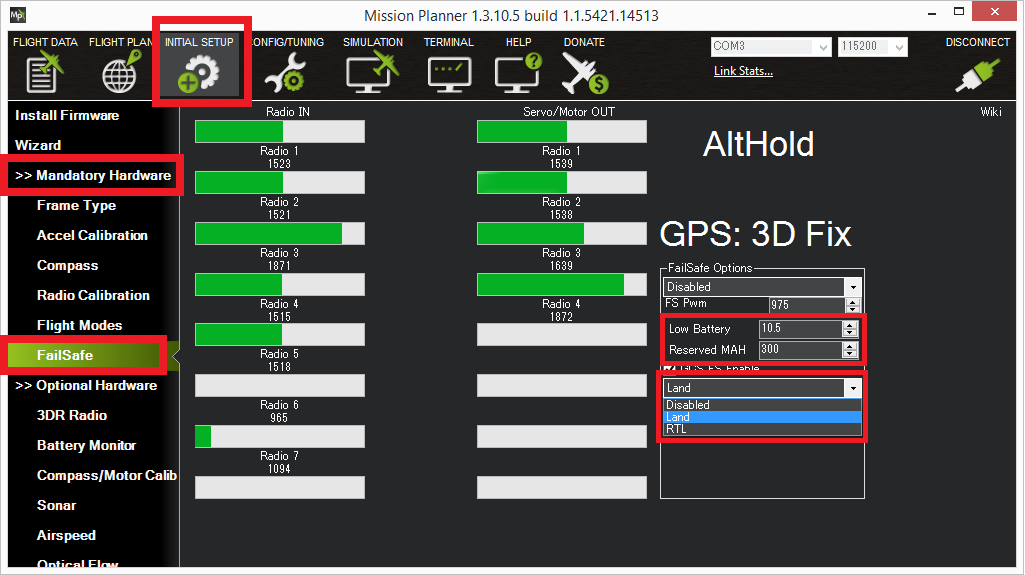
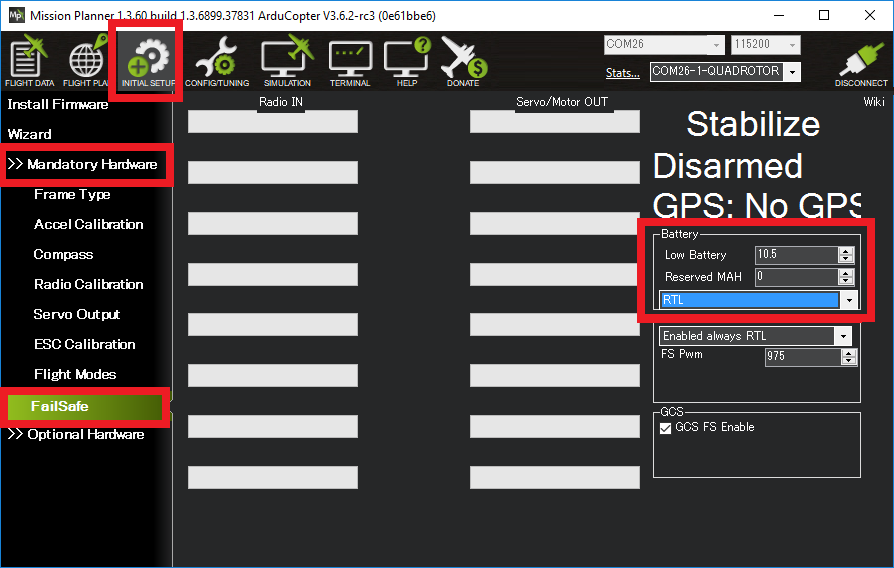
Copter: update battery failsafe for 3.6

diff --git a/copter/source/docs/failsafe-battery.rst b/copter/source/docs/failsafe-battery.rst
@@ -4,76 +4,76 @@
 Battery Failsafe
 ================
 
-This article explains how to setup and test the battery failsafe.
-
-Overview
-========
-
-The battery failsafe can be set-up to automatically trigger an RTL or
-LAND when the vehicle battery voltage or estimated remaining power has
-crossed a configurable threshold.
-
-To use this failsafe the vehicle must have a :ref:`Power Module or other voltage and (optionally) current monitor <common-powermodule-landingpage>`.
+The battery failsafe can be configured to automatically switch the vehicle into :ref:`RTL <rtl-mode>`, :ref:`SmartRTL <smartrtl-mode>` or :ref:`Land <land-mode>` mode if the vehicle battery voltage drops below a specified voltage for 10 seconds or the estimated remaining capacity has dropped below a configurable threshold.
 
 .. note::
 
-   Copter also supports other failsafes: :ref:`Radio <radio-failsafe>`,
-   :ref:`GCS <gcs-failsafe>`, and :ref:`EKF / DCM Check <ekf-inav-failsafe>`.
+    This failsafe requires the vehicle have a working :ref:`Power Module <common-powermodule-landingpage>`.
 
 When the failsafe will trigger
-==============================
+------------------------------
 
-If enabled and set-up correctly the battery failsafe will trigger if the
-main battery:
+If enabled and set-up correctly the battery failsafe will trigger if the main battery's
 
--  voltage drops below 10.5 volts (configurable) for more than 10
-   seconds
--  remaining capacity falls below the configurable Reserved MAH
+-  voltage drops below the voltage held in the :ref:`BATT_LOW_VOLT <BATT_LOW_VOLT>` or :ref:`FS_BATT_VOLTAGE <FS_BATT_VOLTAGE>` parameter for more than 10 seconds.  The default voltage is 10.5 volts.  If set to zero the voltage based trigger will be disabled.
+-  remaining capacity falls below the :ref:`BATT_LOW_MAH <BATT_LOW_MAH>` or :ref:`FS_BATT_MAH <FS_BATT_MAH>`.  20% of the battery's full capacity is a good choice (i.e. "1000" for a 5000mAh battery).  If set to zero the capacity based trigger will be disabled (i.e. only voltage will be used)
 
 What will happen
-================
+----------------
 
-When the failsafe is triggered one of the following will happen:
+When the failsafe is triggered:
+
+-  Buzzer will play a loud low-battery alarm
+-  LEDs will flash yellow
+-  "Low Battery!" will be displayed on the ground stations HUD (if telemetry is connected)
+
+Then one of the following will happen:
 
 -  **Nothing** if the vehicle is already disarmed
--  **Disarm motors** if the vehicle is in Stabilize or Acro mode and the
-   throttle is at zero OR the vehicle is landed
--  **Return-to-Launch (RTL)** if the ``FS_BATT_ENABLE`` param is set to
-   "2" ("RTL") OR the vehicle is in AUTO mode, has a GPS lock and are at
-   least 2 meters from your home position
--  **Land** in all other cases
+-  **Disarm motors** if the vehicle is in Stabilize or Acro mode and the throttle is at zero OR the vehicle is landed
+-  The user configurable action held in the :ref:`BATT_FS_LOW_ACT <BATT_FS_LOW_ACT>` (Copter-3.6 or higher) or :ref:`FS_BATT_ENABLE <FS_BATT_ENABLE>` (Copter-3.5 or lower) parameter:
 
-Setting up the battery failsafe
-===============================
+  - **0** : None - no action will be taken
+  - **1** : Land - the vehicle will switch to :ref:`Land <land-mode>` mode
+  - **2** : RTL - the vehicle will switch to :ref:`Return-to-Launch <rtl-mode>` mode if possible but if not possible (because of no good position estimate) the vehicle will :ref:`Land <land-mode>` (**Recommended**)
+  - **3** : SmartRTL or RTL - the vehicle will switch to :ref:`SmartRTL <smartrtl-mode>` mode if possible, if not possible (because SmartRTL's position buffer is full) the vehicle will switch to :ref:`RTL <rtl-mode>`.  If RTL is also not possible (because of no good position estimate) the vehicle will switch to :ref:`Land <land-mode>`
+  - **4** : SmartRTL or Land - the vehicle will switch to :ref:`SmartRTL <smartrtl-mode>` mode if possible, if not possible (because SmartRTL's position buffer is full) the vehicle will switch to :ref:`Land <land-mode>`
+  - **5** : Terminate - the vehicle will disarm the motors.  This is a dangerous option that should not be used in most cases
 
--  Setup the power module as described in the :ref:`Power Modules section of this wiki <common-powermodule-landingpage>` including setting the
-   totally battery capacity if using a current monitor
+As with all failsafes, the user can re-take control of the vehicle by changing the flight mode switch to another mode.  The battery failsafe will not trigger again unless the two-layer failsafe is setup (see below)
+
+.. note::
+
+    Even if the failsafe action is set to "None" (i.e. :ref:`BATT_FS_LOW_ACT <BATT_FS_LOW_ACT>` = 0) the buzzer will buzz and the LEDs will flash yellow.  To completely disable the battery failsafe set :ref:`BATT_LOW_VOLT <BATT_LOW_VOLT>` and :ref:`BATT_LOW_MAH <BATT_LOW_MAH>` to zero.
+
+.. note::
+
+    Even if the failsafe action is set to "None" (i.e. :ref:`BATT_FS_LOW_ACT <BATT_FS_LOW_ACT>` = 0) the buzzer will buzz and the LEDs will flash yellow.  To completely disable the battery failsafe set :ref:`BATT_LOW_VOLT <BATT_LOW_VOLT>` and :ref:`BATT_LOW_MAH <BATT_LOW_MAH>` to zero.
+
+Setting up using Mission Planner
+--------------------------------
+
 -  On the **INITIAL SETUP \| Mandatory Hardware \| Failsafe** page:
 
-   -  set the "Low Battery" threshold voltage (i.e. 10.5 volts)
-   -  set the "Reserved MAH" or leave as "0" if the failsafe should
-      never trigger based on estimated current consumed.  "600" would be
-      an appropriate number to cause the vehicle to LAND or RTL when
-      only 20% of a 3000mAH  battery remains.
-   -  select the desired behavior as "Land" or "RTL" (Note: the
-      placement of the drop-down is confusing but this will be corrected
-      in a future version of the mission planner)
+   - If the Battery section parmeters are greyed out follow instructions to setup the :ref:`Power Module <common-powermodule-landingpage>`
+   - Set the "Low Battery" threshold voltage (i.e. 10.5 volts)
+   - Set the "Reserved MAH" or leave as "0" if the failsafe should never trigger based on estimated current consumed.
+   - Select the desired behavior (Land, RTL, SmartRTL, etc) from the drop-down list
 
 .. image:: ../images/Failsafe_Battery_Setup.png
     :target: ../_images/Failsafe_Battery_Setup.png
 
-Low Battery warning (even with failsafe disabled)
-=================================================
+Two-Layer failsafe
+------------------
 
-Even if the battery failsafe is not enabled (i.e.
-``FS_BATT_ENABLE = 0``) the "Low Battery" voltage threshold and
-"Reserved MAH" numbers are used to issue a battery warning. This will
-result in:
+Copter-3.6 (and higher) includes a two-layer battery failsafe.  This allows setting up a follow-up action if the battery voltage or remaining capacity falls below an even lower threshold.
 
--  "Low Battery!" message appearing on the ground stations HUD (if using
-   telemetry)
--  Loud beeping if a buzzer is attached
--  Flashing LEDs
+- :ref:`BATT_CRT_VOLT <BATT_CRT_VOLT>` - holds the secondary (lower) voltage threshold.  Set to zero to disable.
+- :ref:`BATT_CRT_MAH <BATT_CRT_MAH>` - holds the secondary (lower) capacity threshold.  Set to zero to disable.
+- :ref:`BATT_FS_CRT_ACT <BATT_FS_CRT_ACT>` - holds the secondary action to take.  A reasonable setup would be to have :ref:`BATT_FS_LOW_ACT <BATT_FS_LOW_ACT>` = 2 (RTL) and :ref:`BATT_FS_CRT_ACT <BATT_FS_CRT_ACT>` = 1 (Land)
 
-The only way to disable this warning completely is to set the "Low
-Battery" voltage and "Reserved MAH" values to zero.
+Advanced Settings
+-----------------
+
+- :ref:`BATT_FS_VOLTSRC <BATT_FS_VOLTSRC>` allows configuring whether the raw battery voltage or a sag corrected voltage is used
+- :ref:`BATT_LOW_TIMER <BATT_LOW_TIMER>` can configure how long the voltage must be below the threshold for the failsafe to trigger
